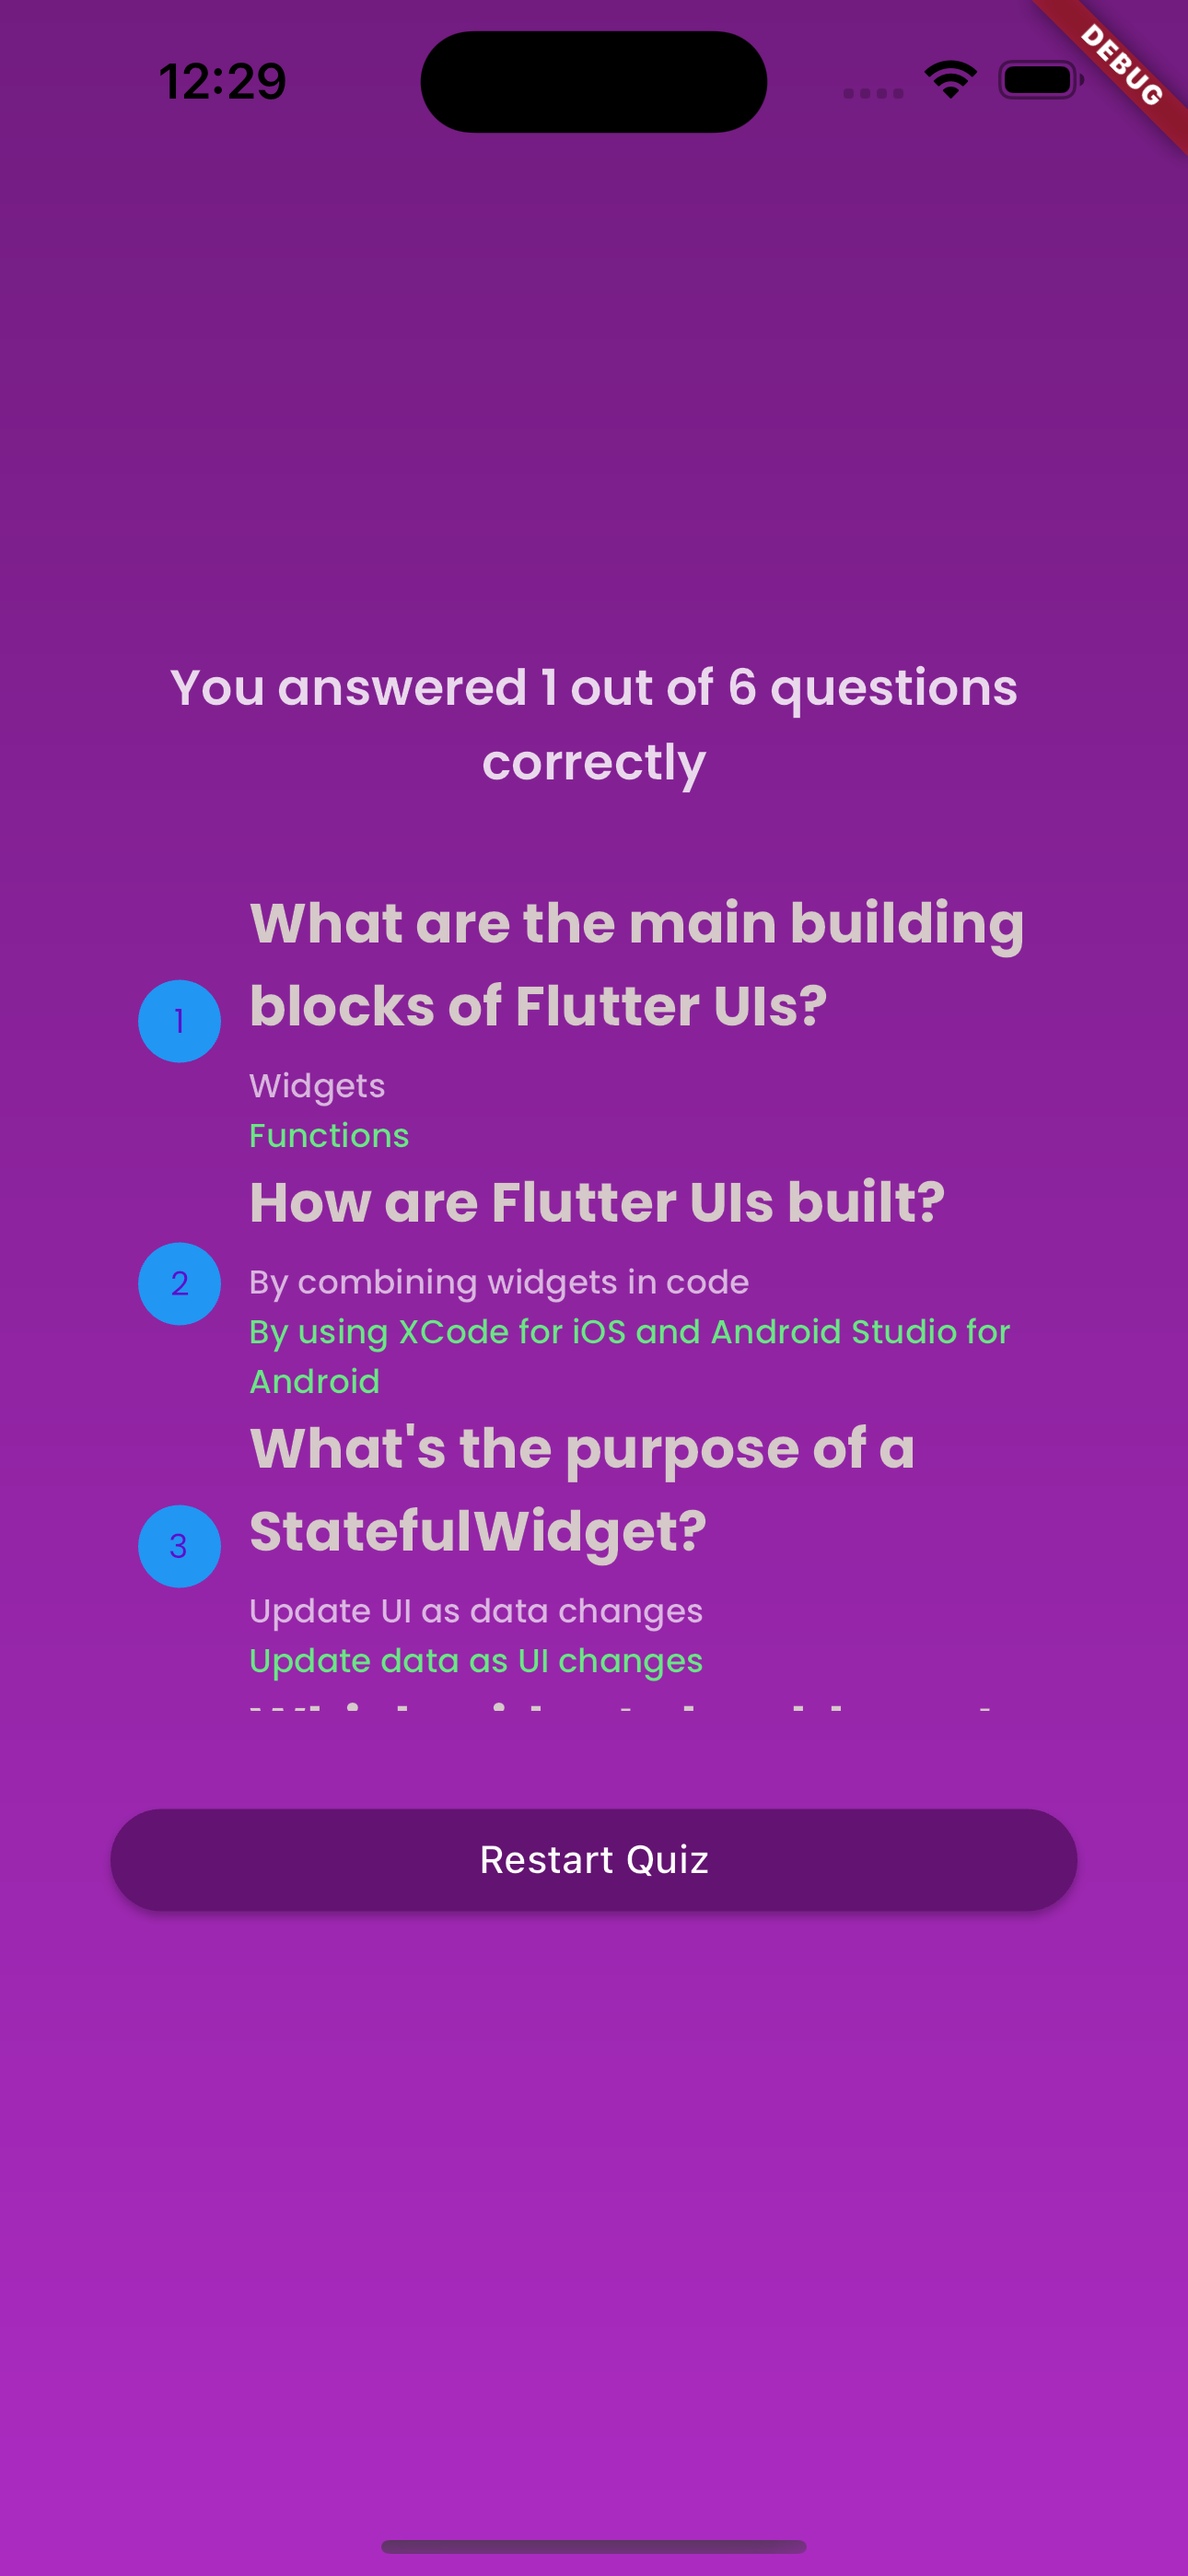
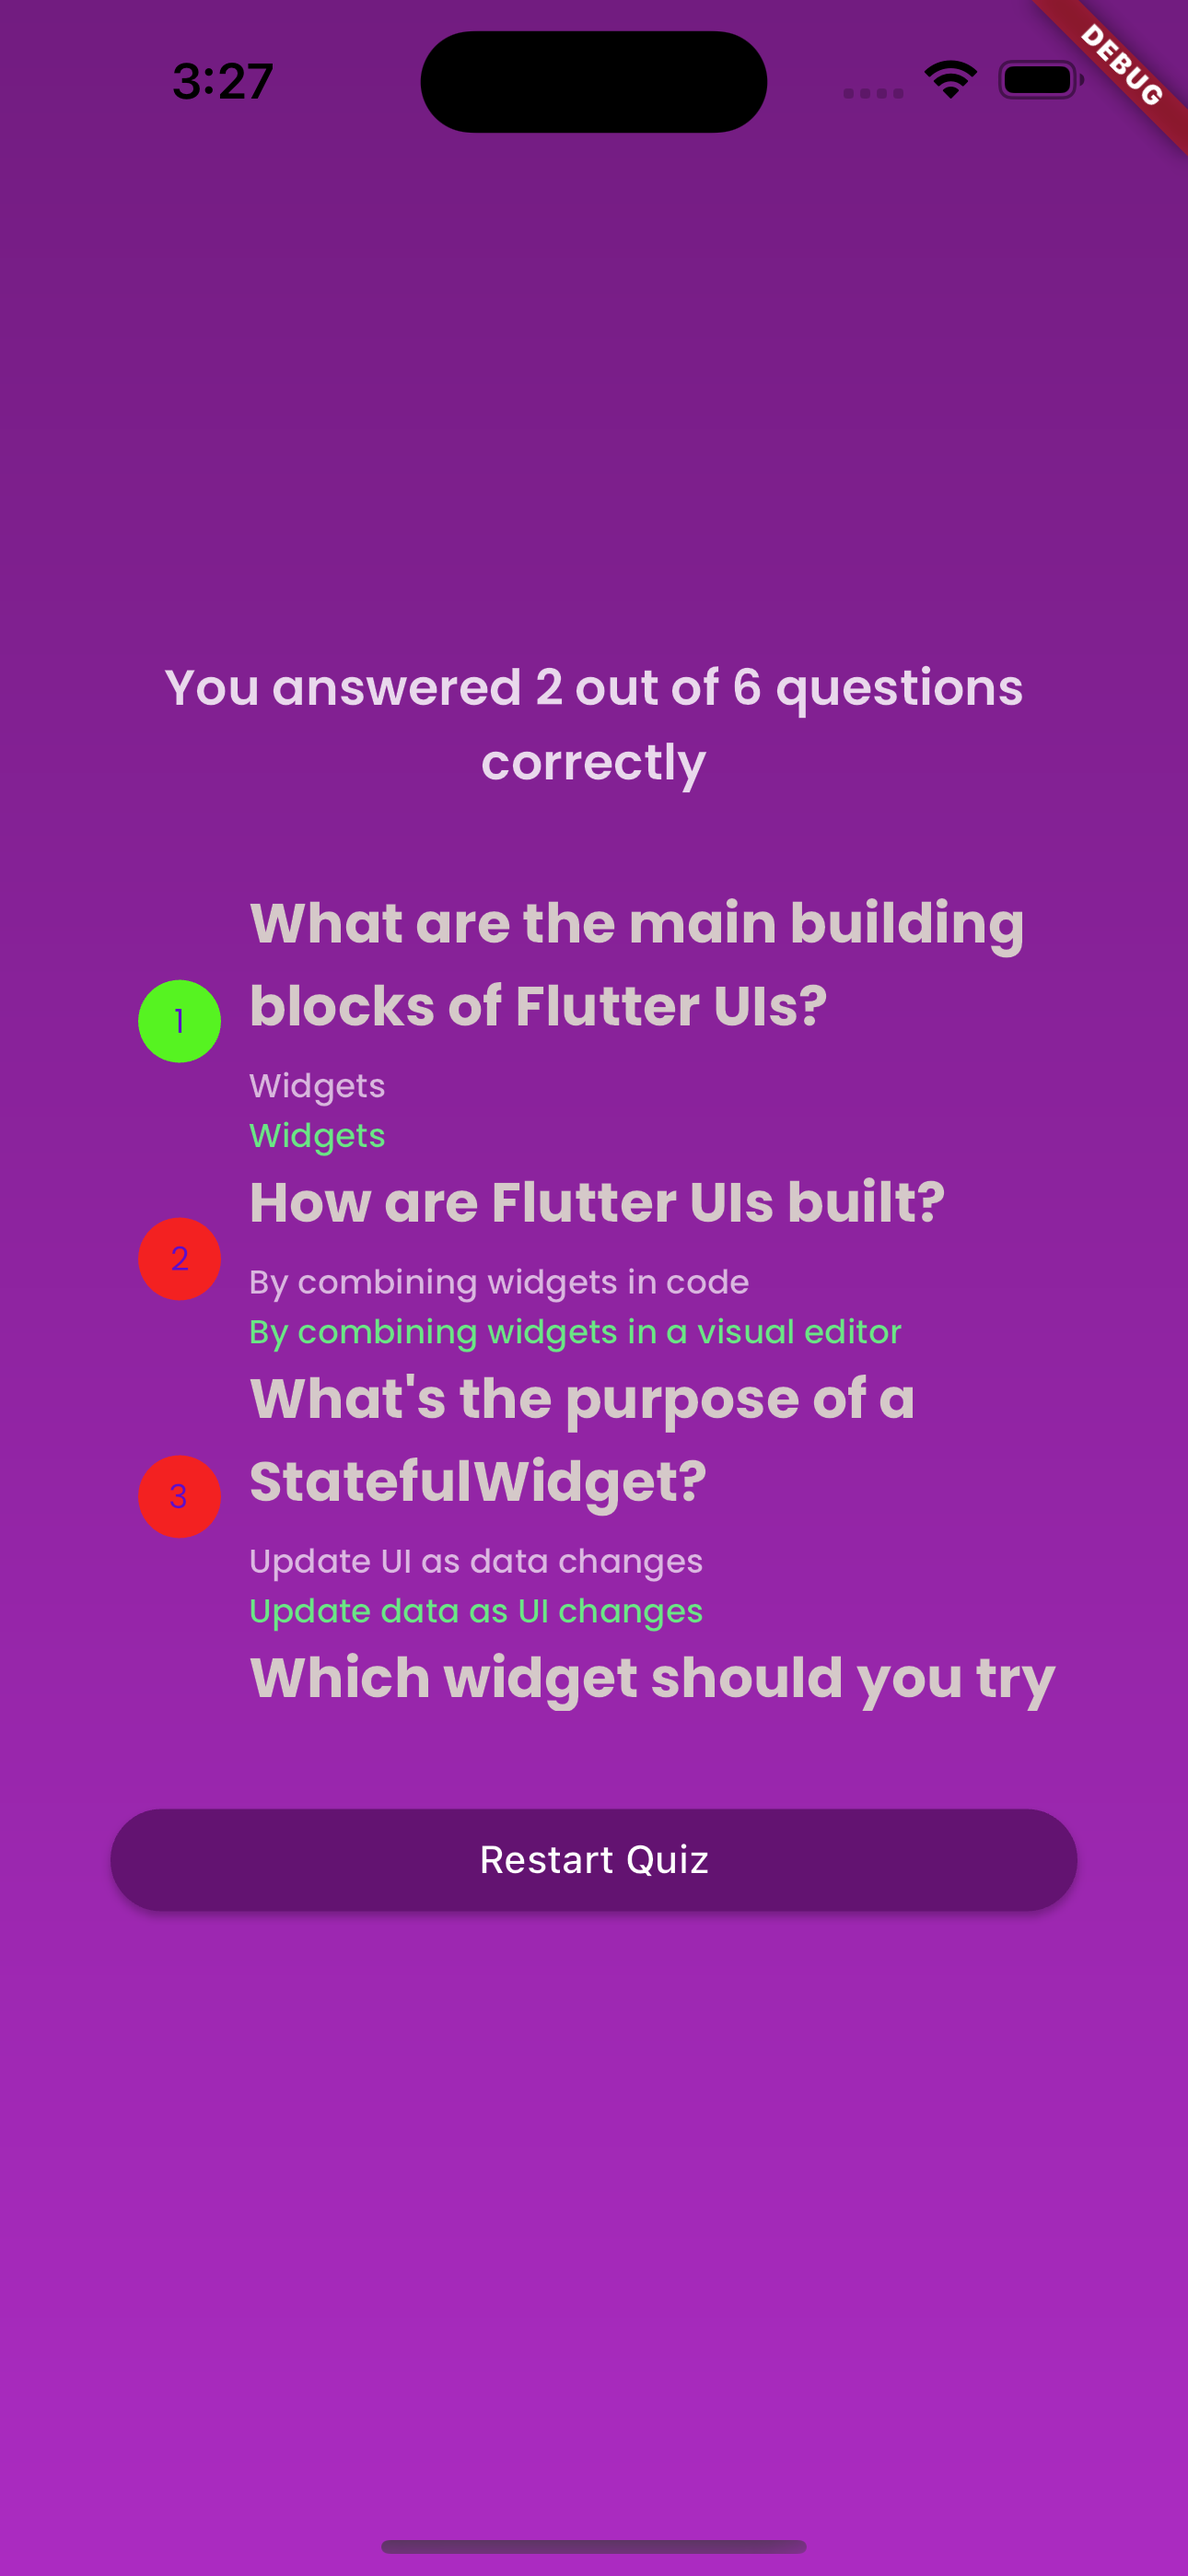
final commit

diff --git a/lib/questions_summay.dart b/lib/questions_summay.dart
@@ -21,9 +21,13 @@ class QuestionsSummary extends StatelessWidget {
                       width: 30,
                       height: 30,
                       alignment: Alignment.center,
-                      decoration: const BoxDecoration(
-                          color: Colors.blue,
-                          borderRadius: BorderRadius.all(Radius.circular(100))),
+                      decoration: BoxDecoration(
+                          color: data['user_answer'] as String ==
+                                  data['correct_answer'] as String
+                              ? const Color.fromARGB(255, 86, 243, 33)
+                              : const Color.fromARGB(255, 243, 33, 33),
+                          borderRadius:
+                              const BorderRadius.all(Radius.circular(100))),
                       child: Text(
                         ((data['questions_index'] as int) + 1).toString(),
                         style: GoogleFonts.poppins(
